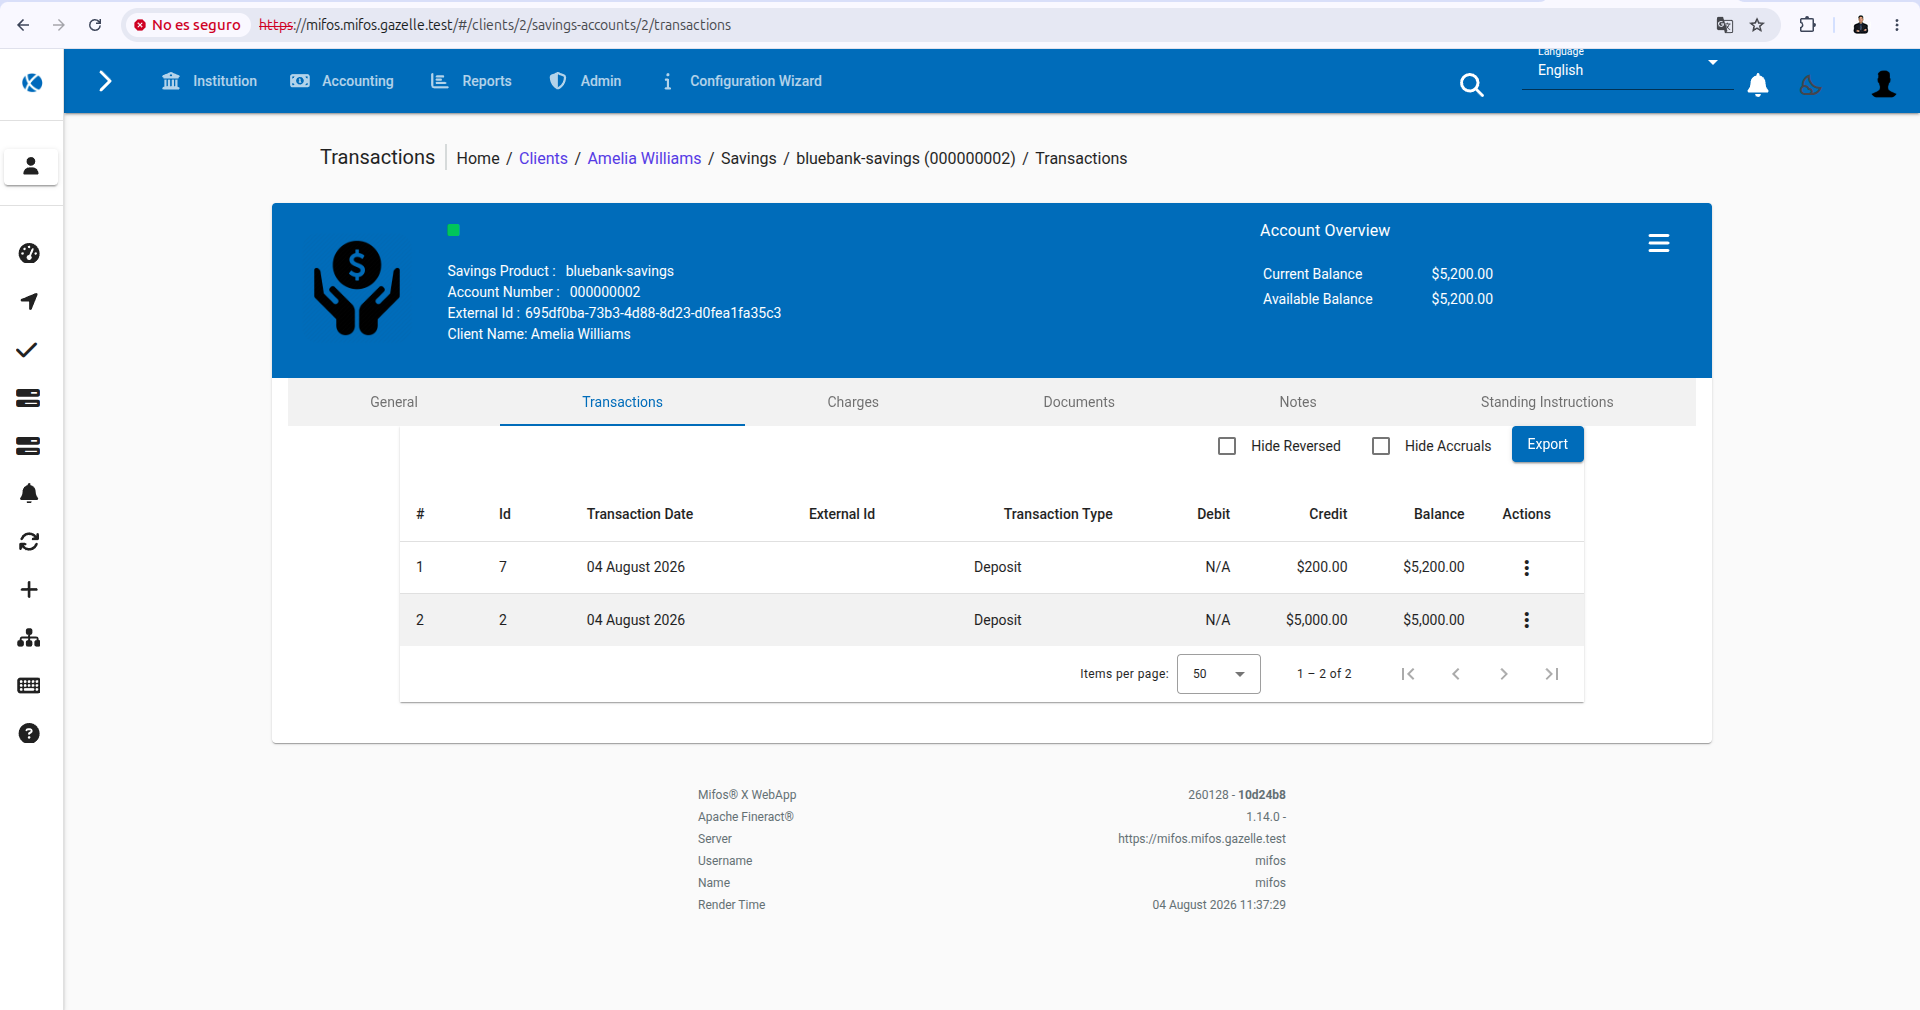
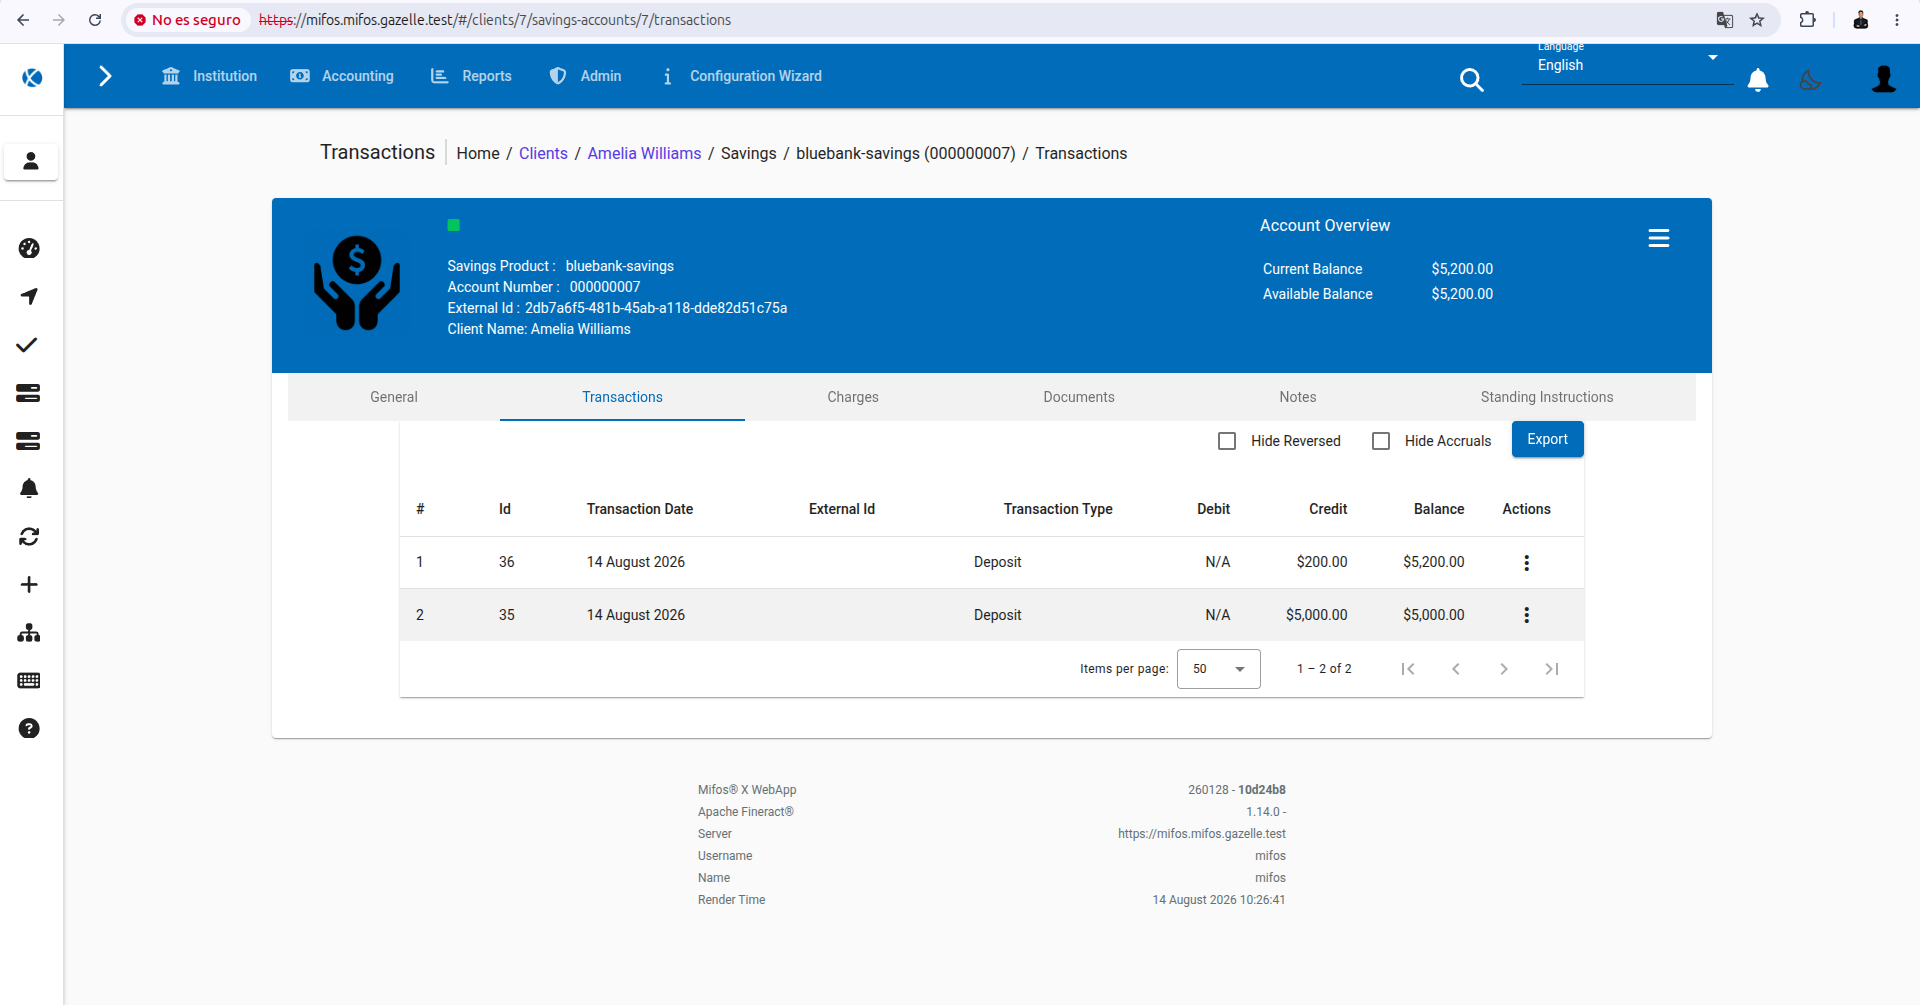
GAZ-340: show Payment Hub in the OpenSPP demo docs and refresh the screenshots

diff --git a/docs/OPENSPP.md b/docs/OPENSPP.md
@@ -261,16 +261,24 @@ posting straight away, so the demo allows up to six minutes per payment against 
 
 ### What it looks like afterwards
 
-In OpenSPP, the programme cycle lists the five payments as reconciled and paid:
+In OpenSPP, the programme cycle lists the payment as reconciled and paid:
 
-![OpenSPP payments for the cycle, five subsidies reconciled and paid](openspp-demo-images/paid-openspp.png)
+![OpenSPP payments for the cycle, the subsidy reconciled and paid](openspp-demo-images/paid-openspp.png)
+
+Payment Hub records the transfer, with the time it started and completed:
+
+![Payment Hub operations web, the subsidy transfer completed](openspp-demo-images/transfers-phee.png)
 
 And in MifosX, the beneficiary's savings account holds the subsidy. Each run adds one deposit of the
 subsidy amount, on top of the balance the account already had:
 
 ![MifosX savings account of a beneficiary, showing the subsidy deposit](openspp-demo-images/deposit-mifosx.png)
 
-The two screens are linked by the account number, `000000002` here, which appears in both.
+The three screens show the same payment: 200 issued in OpenSPP, carried by Payment Hub and deposited
+in MifosX.
+
+> These screenshots come from a run with a single beneficiary, so one payment is easy to follow. The
+> demo ships five, and the process and the result are the same for each of them.
 
 ### How it reaches OpenSPP
 
